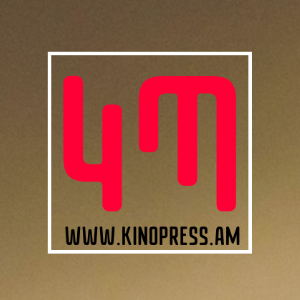
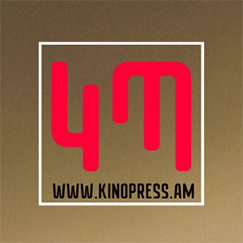
123

Changed region(s): [[0.1728, 0.1728, 0.8354, 0.2016], [0.1728, 0.7778, 0.7202, 0.8354]]

diff --git a/Press/styles.css b/Press/styles.css
@@ -11,7 +11,7 @@
 	 margin-left: auto; 
 	 margin-right: auto; 
 	 width: 1313px;
-	 height: 1533px; 
+	 height: 915px; 
 	 overflow: hidden;
 	 z-index:0;
 	} 
@@ -22,226 +22,36 @@
 	 top: 0px; 
 	 position: absolute; 
 	 width: 1313px;
-	 height: 1533px;
+	 height: 915px;
 	 z-index:1;
-} 
-
- #layer_50250692209569088048 
-{ 
-	 left: 78px; 
-	 top: 269px; 
-	 position: absolute; 
-	 width: 614px;
-	 height: 614px;
-	 z-index:2;
-} 
-
- #oneshotcopy 
-{ 
-	 left: 0px; 
-	 top: 1007px; 
-	 position: absolute; 
-	 width: 1313px;
-	 height: 526px;
-	 z-index:3;
-} 
-
- #layer_13 
-{ 
-	 left: 15px; 
-	 top: 1308px; 
-	 position: absolute; 
-	 width: 633px;
-	 height: 211px;
-	 z-index:4;
-} 
-
- #layer_5 
-{ 
-	 left: 517px; 
-	 top: 1107px; 
-	 position: absolute; 
-	 width: 99px;
-	 height: 99px;
-	 z-index:5;
-} 
-
- #ig 
-{ 
-	 left: 987px; 
-	 top: 1219px; 
-	 position: absolute; 
-	 width: 49px;
-	 height: 49px;
-	 z-index:6;
-} 
-
- #facebookblacksocialb 
-{ 
-	 left: 929px; 
-	 top: 1219px; 
-	 position: absolute; 
-	 width: 49px;
-	 height: 49px;
-	 z-index:7;
-} 
-
- #Rectangle24 
-{ 
-	 left: 20px; 
-	 top: 1070px; 
-	 position: absolute; 
-	 width: 464px;
-	 height: 199px;
-	 z-index:8;
-} 
-
- #Rectangle25 
-{ 
-	 left: 929px; 
-	 top: 1307px; 
-	 position: absolute; 
-	 width: 242px;
-	 height: 63px;
-	 z-index:9;
-} 
-
- #Layer2 
-{ 
-	 left: 948px; 
-	 top: 1321px; 
-	 position: absolute; 
-	 width: 37px;
-	 height: 36px;
-	 z-index:10;
-} 
-
- #layer_11 
-{ 
-	 left: 998px; 
-	 top: 1330px; 
-	 position: absolute; 
-	 width: 157px;
-	 height: 19px;
-	 z-index:11;
-} 
-
- #Rectangle25copy 
-{ 
-	 left: 929px; 
-	 top: 1388px; 
-	 position: absolute; 
-	 width: 291px;
-	 height: 63px;
-	 z-index:12;
-} 
-
- #layer_13_0 
-{ 
-	 left: 948px; 
-	 top: 1412px; 
-	 position: absolute; 
-	 width: 257px;
-	 height: 18px;
-	 z-index:13;
-} 
-
- #Rectangle26 
-{ 
-	 left: 1150px; 
-	 top: 1498px; 
-	 position: absolute; 
-	 width: 165px;
-	 height: 60px;
-	 z-index:14;
-} 
-
- #KUNSTTECH2020 
-{ 
-	 left: 1187px; 
-	 top: 1511px; 
-	 position: absolute; 
-	 width: 105px;
-	 height: 8px;
-	 z-index:15;
-} 
-
- #layer_16 
-{ 
-	 left: 1162px; 
-	 top: 1511px; 
-	 position: absolute; 
-	 width: 8px;
-	 height: 8px;
-	 z-index:16;
-} 
-
- #layer_17 
-{ 
-	 left: 866px; 
-	 top: 117px; 
-	 position: absolute; 
-	 width: 103px;
-	 height: 29px;
-	 z-index:17;
-} 
-
- #ENG 
-{ 
-	 left: 1144px; 
-	 top: 115px; 
-	 position: absolute; 
-	 width: 88px;
-	 height: 28px;
-	 z-index:18;
 } 
 
  #HeaderLogo 
 { 
-	 left: 54px; 
-	 top: 72px; 
+	 left: 78px; 
+	 top: 76px; 
 	 position: absolute; 
 	 width: 449px;
 	 height: 87px;
-	 z-index:19;
+	 z-index:2;
+} 
+
+ #layer_50250692209569088048 
+{ 
+	 left: 137px; 
+	 top: 316px; 
+	 position: absolute; 
+	 width: 455px;
+	 height: 430px;
+	 z-index:3;
 } 
 
  #layer_91258620686945418732 
 { 
-	 left: 878px; 
-	 top: 471px; 
+	 left: 861px; 
+	 top: 409px; 
 	 position: absolute; 
-	 width: 300px;
-	 height: 300px;
-	 z-index:20;
-} 
-
- #Shape1copy3 
-{ 
-	 left: 986px; 
-	 top: 106px; 
-	 position: absolute; 
-	 width: 4px;
-	 height: 47px;
-	 z-index:21;
-} 
-
- #Shape1copy3_0 
-{ 
-	 left: 846px; 
-	 top: 106px; 
-	 position: absolute; 
-	 width: 4px;
-	 height: 47px;
-	 z-index:22;
-} 
-
- #layer_23 
-{ 
-	 left: 1295px; 
-	 top: 1190px; 
-	 position: absolute; 
-	 width: 17px;
-	 height: 239px;
-	 z-index:23;
+	 width: 243px;
+	 height: 243px;
+	 z-index:4;
 } 

diff --git a/Press/index.html b/Press/index.html
@@ -8,28 +8,9 @@
 	<body>
 		<div id="background">
 			<div id="Layer0"><img src="images/Layer0.png"></div>
+			<div id="HeaderLogo"><a href="oneshot.am"><img src="images/HeaderLogo.png" /></a></div>
 			<div id="layer_50250692209569088048"><a href="https://kinoashkharh.am/2020/09/mek-kadr-tesnelu-sovorelu-zarganalu-bac-hartak/"><img src="images/layer_50250692209569088048.png" /></a></div>
-			<div id="oneshotcopy"><img src="images/oneshotcopy.png"></div>
-			<div id="layer_13"><a href="https://goo.gl/maps/W1m1KAxY71oD3GPe6"><img src="images/layer_13.png" /></a></div>
-			<div id="layer_5"><img src="images/layer_5.png"></div>
-			<div id="ig"><a href="https://www.instagram.com/oneshot.isff/"><img src="images/ig.png" /></a></div>
-			<div id="facebookblacksocialb"><a href="https://www.facebook.com/oneshotfest/"><img src="images/facebookblacksocialb.png" /></a></div>
-			<div id="Rectangle24"><img src="images/Rectangle24.png"></div>
-			<div id="Rectangle25"><img src="images/Rectangle25.png"></div>
-			<div id="Layer2"><img src="images/Layer2.png"></div>
-			<div id="layer_11"><img src="images/layer_11.png"></div>
-			<div id="Rectangle25copy"><a href="../Rules/Rulesnor/index.html"><img src="images/Rectangle25copy.png" /></a></div>
-			<div id="layer_13_0"><a href="../Rules/Rulesnor/index.html"><img src="images/layer_13_0.png" /></a></div>
-			<div id="Rectangle26"><img src="images/Rectangle26.png"></div>
-			<div id="KUNSTTECH2020"><img src="images/KUNSTTECH2020.png"></div>
-			<div id="layer_16"><img src="images/layer_16.png"></div>
-			<div id="layer_17"><a href="index.html"><img src="images/layer_17.png" /></a></div>
-			<div id="ENG"><a href="../en/Press/index.html"><img src="images/ENG.png" /></a></div>
-			<div id="HeaderLogo"><a href="https://www.oneshot.am/index.html"><img src="images/HeaderLogo.png" /></a></div>
 			<div id="layer_91258620686945418732"><a href="https://kinopress.am/%d5%b4%d5%a7%d5%af-%d5%af%d5%a1%d5%a4%d6%80-%d6%86%d5%ab%d5%ac%d5%b4%d5%a5%d6%80%d5%ab-%d6%83%d5%a1%d5%bc%d5%a1%d5%bf%d5%b8%d5%b6-2020/"><img src="images/layer_91258620686945418732.png" /></a></div>
-			<div id="Shape1copy3"><img src="images/Shape1copy3.png"></div>
-			<div id="Shape1copy3_0"><img src="images/Shape1copy3_0.png"></div>
-			<div id="layer_23"><a href="../Rules/Rulesnor/index.html"><img src="images/layer_23.png" /></a></div>
 		</div>
  </body>
  </html>

diff --git a/index.html b/index.html
@@ -69,7 +69,7 @@
 			<div id="layer_50"><a href="Sponsors/Sponsors.html"><img src="images/layer_50.png" /></a></div>
 			<div id="layer_51"><a href="Rules/Rules.html"><img src="images/layer_51.png" /></a></div>
 			<div id="Rectangle28"><img src="images/Rectangle28.png"></div>
-			<div id="layer_53"><a href="Press/index.html"><img src="images/layer_53.png" /></a></div>
+			<div id="layer_53"><a href="../Press/index.html"><img src="images/layer_53.png" /></a></div>
 			<div id="layer_54"><a href="About Us/index.html"><img src="images/layer_54.png" /></a></div>
 			<div id="layer_55"><a href="https://www.accea.info/hy/one-shot"><img src="images/layer_55.png" /></a></div>
 			<div id="Shape1"><img src="images/Shape1.png"></div>

diff --git a/en/Home Page.html b/en/Home Page.html
@@ -61,7 +61,7 @@
 			<div id="sponsors8"><a href="Sponsors/index.html"><img src="images/sponsors8.png" /></a></div>
 			<div id="statute8"><a href="Rules/index.html"><img src="images/statute8.png" /></a></div>
 			<div id="Rectangle288"><img src="images/Rectangle288.png"></div>
-			<div id="press8"><a href="Press/index.html"><img src="images/press8.png" /></a></div>
+			<div id="press8"><a href="../Press/index.html"><img src="images/press8.png" /></a></div>
 			<div id="aboutus8"><a href="AboutUs/index.html"><img src="images/aboutus8.png" /></a></div>
 			<div id="archive8"><a href="https://www.accea.info/hy/one-shot"><img src="images/archive8.png" /></a></div>
 			<div id="Shape18"><img src="images/Shape18.png"></div>
